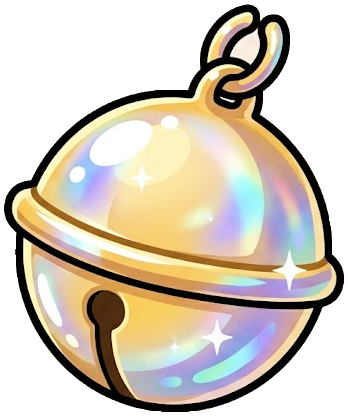
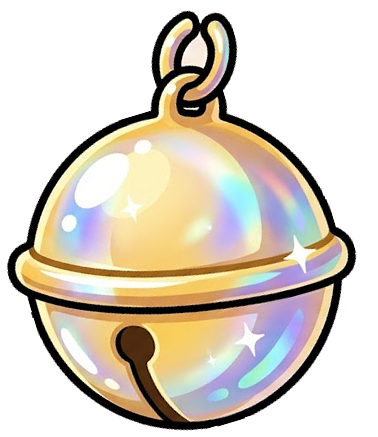
Straighten the gold bell so the hanging loop sits at the top center.
Rotate the cropped PNG upright and pivot the swing from the loop.

diff --git a/src/App.css b/src/App.css
@@ -141,10 +141,10 @@
 .bell {
   position: absolute;
   left: 50%;
-  top: 18px;
+  top: 16px;
   width: 148px;
   transform: translateX(-50%);
-  transform-origin: 71% 2%;
+  transform-origin: 50% 3%;
   animation: bell-swing 1.8s ease-in-out infinite;
 }
 
